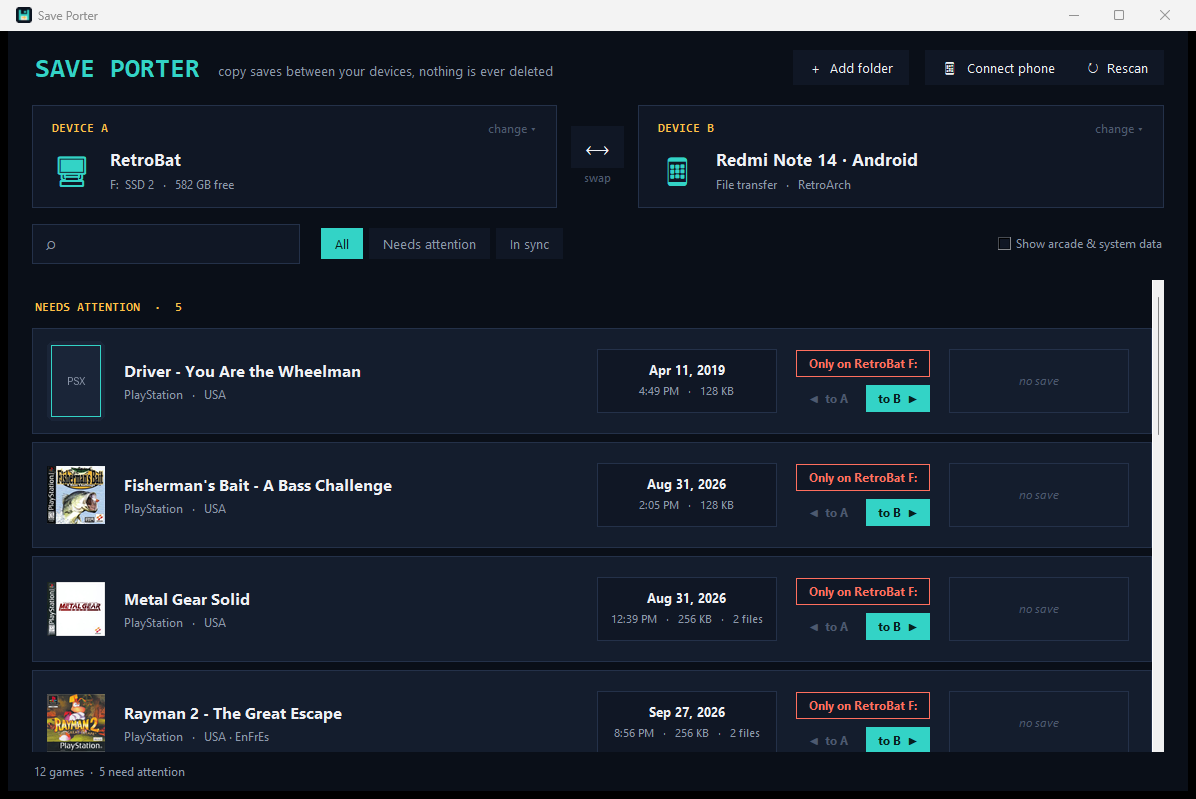
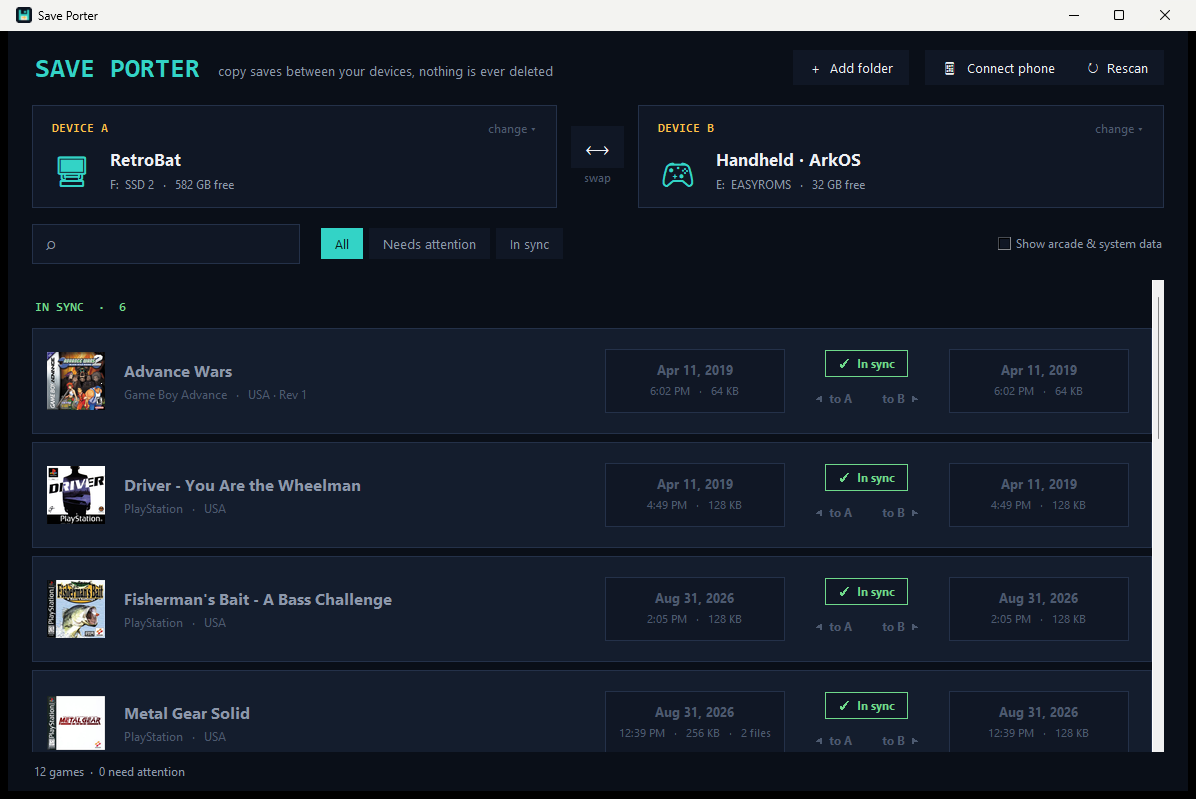
README: R36S screenshot up top, phone screenshot in the phone section

diff --git a/README.md b/README.md
@@ -2,7 +2,7 @@
 
 Move emulator saves between your PC, your handheld and your phone. Plug stuff in, pick two devices, click an arrow.
 
-![Save Porter](docs/screenshot.png)
+![Save Porter syncing a RetroBat PC with an R36S](docs/screenshot.png)
 
 ## Download
 
@@ -36,6 +36,8 @@ PS1 memory cards convert between DuckStation (`.mcd`) and RetroArch (`.srm`) aut
 Some things can't move between some devices (a PS3 save has nowhere to go on an R36S). Those show up greyed out at the bottom.
 
 ## Connecting a phone
+
+![Save Porter with an Android phone](docs/phone.png)
 
 Hit **Connect phone** in the app for the full walkthrough. Three ways in:
 
